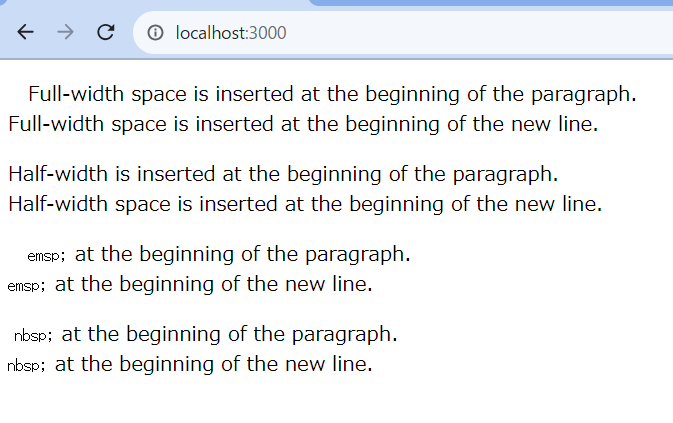
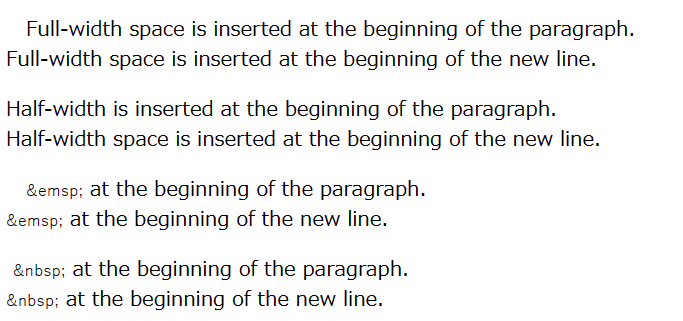
fix typo

diff --git a/src/content/novel/sample.md b/src/content/novel/sample.md
@@ -8,8 +8,8 @@ title: "Sample Conetnt"
  Half-width is inserted at the beginning of the paragraph.  
  Half-width space is inserted at the beginning of the new line.
 
-&emsp;`emsp;`   at the beginning of the paragraph.  
-&emsp;`emsp;` at the beginning of the new line.
+&emsp;`&emsp;`   at the beginning of the paragraph.  
+&emsp;`&emsp;` at the beginning of the new line.
 
-&nbsp;`nbsp;` at the beginning of the paragraph.  
-&nbsp;`nbsp;` at the beginning of the new line.
+&nbsp;`&nbsp;` at the beginning of the paragraph.  
+&nbsp;`&nbsp;` at the beginning of the new line.
